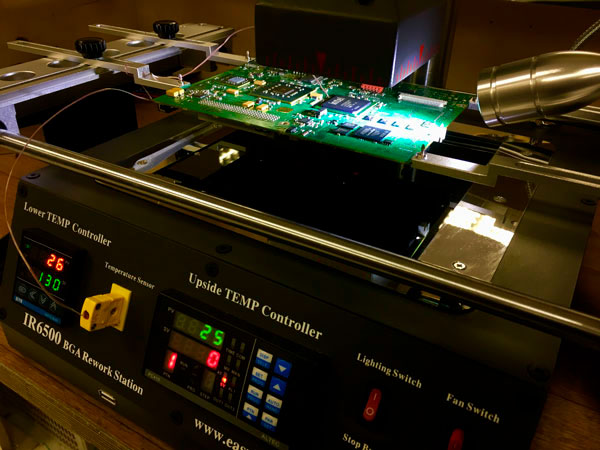
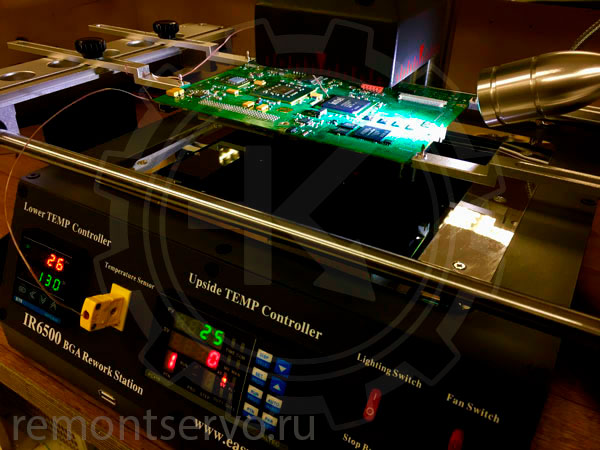
добавил фото до 6235 в ourworks

diff --git a/www/remontservo.ru/pages/our-works.html b/www/remontservo.ru/pages/our-works.html
@@ -53,8 +53,8 @@
 <li class=ourworks_description>- настройка резольвера серводвигателя.</li>
 </ul>
 </div>
-<!--<div class=item>
-<img class=lazy src=# data-original=../img/our-works/servomotor_b&r_automation_8msa42.ro-31.jpg alt="Ремонт сервомотора B&R_Automation_8MSA42.RO-31" title="Сервомотор B&R_Automation_8MSA42.RO-31">
+<div class=item>
+<img class=lazy src=# data-original=../img/our-works/servomotor_b_r_automation_8msa42.ro-31.jpg alt="Ремонт сервомотора B&R_Automation_8MSA42.RO-31" title="Сервомотор B&R_Automation_8MSA42.RO-31">
 <p class=ourworks_description style=margin-top:5px>Ремонт сервомотора B&R Automation 8MSA42.RO-31</p>
 <p class=ourworks_description>Проводились следующие работы:</p>
 <ul>
@@ -63,7 +63,7 @@
 <li class=ourworks_description>- настройка резольвера</li>
 <li class=ourworks_description>- проверка работы с приводом.</li>
 </ul>
-</div>-->
+</div>
 <div class=item>
 <img class=lazy src=# data-original=../img/our-works/servomotor_control_technigues_115u2c305bacaa115190.jpg alt="Ремонт серводвигателя CONTROL-TECHNIGUES 115U2C305BACAA115190" title="Сервомотор CONTROL-TECHNIGUES 115U2C305BACAA115190">
 <p class=ourworks_description style=margin-top:5px>Ремонт серводвигателя CONTROL-TECHNIGUES 115U2C305BACAA115190</p>
@@ -713,6 +713,103 @@
 <img class=lazy src=# data-original=../img/our-works/controller_simatic_6217.jpg alt="Электронный блок SIEMENS SIMODRIVE LT-MODUL INT.2X50A 6SN1123-1AB00-0CA1" title="SIEMENS SIMODRIVE LT-MODUL INT.2X50A 6SN1123-1AB00-0CA1">
 <p class=ourworks_description style=margin-top:5px>Ремонт электронного блока SIEMENS SIMODRIVE LT-MODUL INT.2X50A 6SN1123-1AB00-0CA1</p>
 </div>
+    
+    <div class=item>
+<img class=lazy src=# data-original=../img/our-works/baltec_530923_6218.jpg alt="Пульт управления BALTEC 530923 WM 109080100" title="BALTEC 530923 WM 109080100">
+<p class=ourworks_description style=margin-top:5px>Ремонт пульта управления BALTEC 530923 WM 109080100</p>
+</div>
+    
+    <div class=item>
+<img class=lazy src=# data-original=../img/our-works/preobrazovatel_zoncn_6219.jpg alt="Частотный преобразователь ZONCN H3400A0D75K-D" title="ZONCN H3400A0D75K-D">
+<p class=ourworks_description style=margin-top:5px>Ремонт частотного преобразователя ZONCN H3400A0D75K-D</p>
+</div>
+    
+     <div class=item>
+<img class=lazy src=# data-original=../img/our-works/preobrazovatel_holip_6220.jpg alt="Частотный преобразователь HOLIP HLP-A" title="HOLIP HLP-A">
+<p class=ourworks_description style=margin-top:5px>Ремонт частотного преобразователя HOLIP HLP-A</p>
+</div>
+    
+    <div class=item>
+<img class=lazy src=# data-original=../img/our-works/preobrazovatel_delta_6221.jpg alt="Частотный преобразователь DELTA CP-2000 VFD150CP43B-21" title="DELTA CP-2000 VFD150CP43B-21">
+<p class=ourworks_description style=margin-top:5px>Ремонт частотного преобразователя DELTA CP-2000 VFD150CP43B-21 150CPEBJW14280098</p>
+</div>
+    
+    <div class=item>
+<img class=lazy src=# data-original=../img/our-works/preobrazovatel_delta_6222.jpg alt="Частотный преобразователь DELTA CP-2000 VFD150CP43B-21" title="DELTA CP-2000 VFD150CP43B-21">
+<p class=ourworks_description style=margin-top:5px>Ремонт частотного преобразователя DELTA CP-2000 VFD150CP43B-21</p>
+</div>
+    
+    <div class=item>
+<img class=lazy src=# data-original=../img/our-works/rexroth_msk071e_6223.jpg alt="Серводвигатель Rexroth MSK071E-0300-NN-SI-UPO-NNNN" title="Rexroth MSK071E-0300-NN-SI-UPO-NNNN">
+<p class=ourworks_description style=margin-top:5px>Ремонт серводвигателя Rexroth MSK071E-0300-NN-SI-UPO-NNNN</p>
+</div>
+    
+    <div class=item>
+<img class=lazy src=# data-original=../img/our-works/prompc_num_6224.jpg alt="Промышленный компьютер NUM" title="NUM">
+<p class=ourworks_description style=margin-top:5px>Ремонт промышленного компьютера NUM</p>
+</div>
+    
+    <div class=item>
+<img class=lazy src=# data-original=../img/our-works/prompc_num_6225.jpg alt="Частотный преобразователь KONE V3F25S KM8700 50601" title="KONE V3F25S KM8700 50601">
+<p class=ourworks_description style=margin-top:5px>Ремонт частотного преобразователя KONE V3F25S KM8700 50601</p>
+</div>
+    
+    <div class=item>
+<img class=lazy src=# data-original=../img/our-works/kone_v3f25_6226.jpg alt="Частотный преобразователь KONE V3F25" title="KONE V3F25">
+<p class=ourworks_description style=margin-top:5px>Ремонт частотного преобразователя KONE V3F25</p>
+</div>
+    
+    <div class=item>
+<img class=lazy src=# data-original=../img/our-works/indramat_i01250_6227.jpg alt="Серводвигатель INDRAMAT MAC092B-0-QD-1-B/095-B-1/-I01250" title="INDRAMAT MAC092B-0-QD-1-B/095-B-1/-I01250">
+<p class=ourworks_description style=margin-top:5px>Ремонт cерводвигателя INDRAMAT MAC092B-0-QD-1-B/095-B-1/-I01250</p>
+</div>
+    
+    <div class=item>
+<img class=lazy src=# data-original=../img/our-works/indramat_mac092b_6228.jpg alt="Серводвигатель INDRAMAT MAC092B-0-QD-1-B/095-B-1/-I01250" title="INDRAMAT MAC092B-0-QD-1-B/095-B-1/-I01250">
+<p class=ourworks_description style=margin-top:5px>Ремонт cерводвигателя INDRAMAT MAC092B-0-QD-1-B/095-B-1/-I01250</p>
+</div>
+    
+    <div class=item>
+<img class=lazy src=# data-original=../img/our-works/altivar_61_6229.jpg alt="Частотный преобразователь Altivar 61 ATV61HD15N4" title="Altivar 61 ATV61HD15N4">
+<p class=ourworks_description style=margin-top:5px>Ремонт частотного преобразователя Altivar 61 ATV61HD15N4</p>
+</div>
+    
+     <div class=item>
+<img class=lazy src=# data-original=../img/our-works/servomotor_ht3035152r_6230.jpg alt="Серводвигатель Китай HT3035152R" title="Китай HT3035152R">
+<p class=ourworks_description style=margin-top:5px>Ремонт cерводвигателя Китай HT3035152R</p>
+</div>
+    
+    <div class=item>
+<img class=lazy src=# data-original=../img/our-works/siemens_1fk7064_6231.jpg alt="Серводвигатель SIEMENS 1FK7064-7AH71-1SH3" title="SIEMENS 1FK7064-7AH71-1SH3">
+<p class=ourworks_description style=margin-top:5px>Ремонт серводвигателя SIEMENS 1FK7064-7AH71-1SH3</p>
+</div>
+    
+    <div class=item>
+<img class=lazy src=# data-original=../img/our-works/simatic_s7_6232.jpg alt="Электронный блок SIMATIC S7 1P6ES7134-6JD00-0CA1" title="SIMATIC S7 1P6ES7134-6JD00-0CA1">
+<p class=ourworks_description style=margin-top:5px>Ремонт электронного блока SIMATIC S7 1P6ES7134-6JD00-0CA1</p>
+</div>
+    
+    <div class=item>
+<img class=lazy src=# data-original=../img/our-works/inverter_wittmann_6233.jpg alt="Инвертер WITTMANN EU-186W-DRIVE 20A" title="WITTMANN EU-186W-DRIVE 20A">
+<p class=ourworks_description style=margin-top:5px>Ремонт инвертера WITTMANN EU-186W-DRIVE 20A</p>
+</div>
+    
+    <div class=item>
+<img class=lazy src=# data-original=../img/our-works/ac_apm_sa01acn_6235.jpg alt="Серводвигатель AC SERVO MOTOR APM-SA01ACN-8" title="AC SERVO MOTOR APM-SA01ACN-8">
+<p class=ourworks_description style=margin-top:5px>Ремонт Серводвигателя AC SERVO MOTOR APM-SA01ACN-8</p>
+</div>
+    
+    
+    
+ 
+    
+   
+    
+    
+    
+    
+    
+    
 </div>
 </div>
 <a class="left carousel-control" href=#carousel-example-generic role=button data-slide=prev>

diff --git a/www/remontservo.ru/pages/sell.html b/www/remontservo.ru/pages/sell.html
@@ -874,7 +874,7 @@
 <p class=p-sell-bottom>Б/y, в наличии</p>
 </div>
 <div>
-<!--<img src=../img/preload.gif realsrc=../img/sell/keb-number64.jpg class=img-sell alt="Частотный преобразователь KEB 14.F5.B1E-3A0A">
+<img src=../img/preload.gif realsrc=../img/sell/keb-number64.jpg class=img-sell alt="Частотный преобразователь KEB 14.F5.B1E-3A0A">
 <p class=p-sell>№64 Частотный преобразователь</p>
 <p class=p-sell>KEB 14.F5.B1E-3A0A</p>
 <p class=p-sell>Цена договорная</p>
@@ -938,7 +938,7 @@
 <p class=p-sell>KEB 12.F5.B1B-3A0A</p>
 <p class=p-sell>Цена договорная</p>
 <p class=p-sell-bottom>Б/y, в наличии</p>
-</div>-->
+</div>
 <div>
 <img src=../img/preload.gif realsrc=../img/sell/keb-number68-sign.jpg class=img-sell alt="Заводские данные частотного преобразователя KEB 12.F5.B1B-3A0A">
 <p class=p-sell>№68.1 Заводские данные</p>
@@ -1435,14 +1435,14 @@
 <p class=p-sell>Цена договорная</p>
 <p class=p-sell-bottom>Б/У, в наличии</p>
 </div>
-<!--<div class=illustrations>
+<div class=illustrations>
 <img src=../img/preload.gif realsrc=../img/sell/preobrazovatel96.jpg class=img-sell alt="IEK PPM 77/4 фото">
 <p class=p-sell>№96 Лифтовой</p>
 <p class=p-sell>частотный преобразователь</p>
 <p class=p-sell>KONE V3F16L</p>
 <p class=p-sell>Цена договорная</p>
 <p class=p-sell-bottom>Б/У, в наличии</p>
-</div>-->
+</div>
 <div class=illustrations>
 <img src=../img/preload.gif realsrc=../img/sell/baltsystem97.jpg alt="IEK PPM 77/4 фотография" class=img-sell>
 <p class=p-sell>№97 Симулятор системы ЧПУ</p>
@@ -1451,9 +1451,9 @@
 <p class=p-sell>Цена договорная</p>
 <p class=p-sell-bottom>Б/У, в наличии</p>
 </div>
-</div>
+<!-- </div> -->
 </section>
-</div>
+</div> <!-- filling-page -->
 </main>
 <footer class=foot style=position:absolute;width:100%>
 <div class=f-logo-l><img src=../img/logo3.png alt=kerneltlt></div>
@@ -1461,8 +1461,14 @@
 <div class=f-logo-r><img src=../img/logo3.png alt=kerneltlt></div>
 </footer>
 </div>
+    <!-- yandex metrica begin -->
 <script>(function(d,w,c){(w[c]=w[c]||[]).push(function(){try{w.yaCounter44532427=new Ya.Metrika({id:44532427,clickmap:true,trackLinks:true,accurateTrackBounce:true,webvisor:true});}catch(e){}});var n=d.getElementsByTagName("script")[0],s=d.createElement("script"),f=function(){n.parentNode.insertBefore(s,n);};s.type="text/javascript";s.async=true;s.src="https://mc.yandex.ru/metrika/watch.js";if(w.opera=="[object Opera]"){d.addEventListener("DOMContentLoaded",f,false);}else{f();}})(document,window,"yandex_metrika_callbacks");</script> <noscript><div><img src=../https@mc.yandex.ru/watch/44532427 style=position:absolute;left:-9999px alt /></div></noscript>
-<script>(function(){var c="ON5DROotFX";var e=document;var b=window;function a(){var f=document.createElement("script");f.type="text/javascript";f.async=true;f.src="//code.jivosite.com/script/widget/"+c;var d=document.getElementsByTagName("script")[0];d.parentNode.insertBefore(f,d)}if(e.readyState=="complete"){a()}else{if(b.attachEvent){b.attachEvent("onload",a)}else{b.addEventListener("load",a,false)}}})();</script>
+<!-- yandex metrica complete -->
+    <!-- форма обратной связи -->
+    <script>(function(){var c="ON5DROotFX";var e=document;var b=window;function a(){var f=document.createElement("script");f.type="text/javascript";f.async=true;f.src="//code.jivosite.com/script/widget/"+c;var d=document.getElementsByTagName("script")[0];d.parentNode.insertBefore(f,d)}if(e.readyState=="complete"){a()}else{if(b.attachEvent){b.attachEvent("onload",a)}else{b.addEventListener("load",a,false)}}})();</script>
+    <!-- форма обратной связи -->
+    <!-- последовательная загрузка изображений  -->
 <script>function isVisible(c){var d=c.getBoundingClientRect();var e=document.documentElement.clientHeight;var b=d.top>0&&d.top<e;var a=d.bottom<e&&d.bottom>0;return b||a}function showVisible(){var d=document.getElementsByTagName("img");for(var b=0;b<d.length;b++){var a=d[b];var c=a.getAttribute("realsrc");if(!c){continue}if(isVisible(a)){a.src=c;a.setAttribute("realsrc","")}}}window.onscroll=showVisible;showVisible();</script>
+    <!-- последовательная загрузка изображений  -->
 </body>
 </html>
